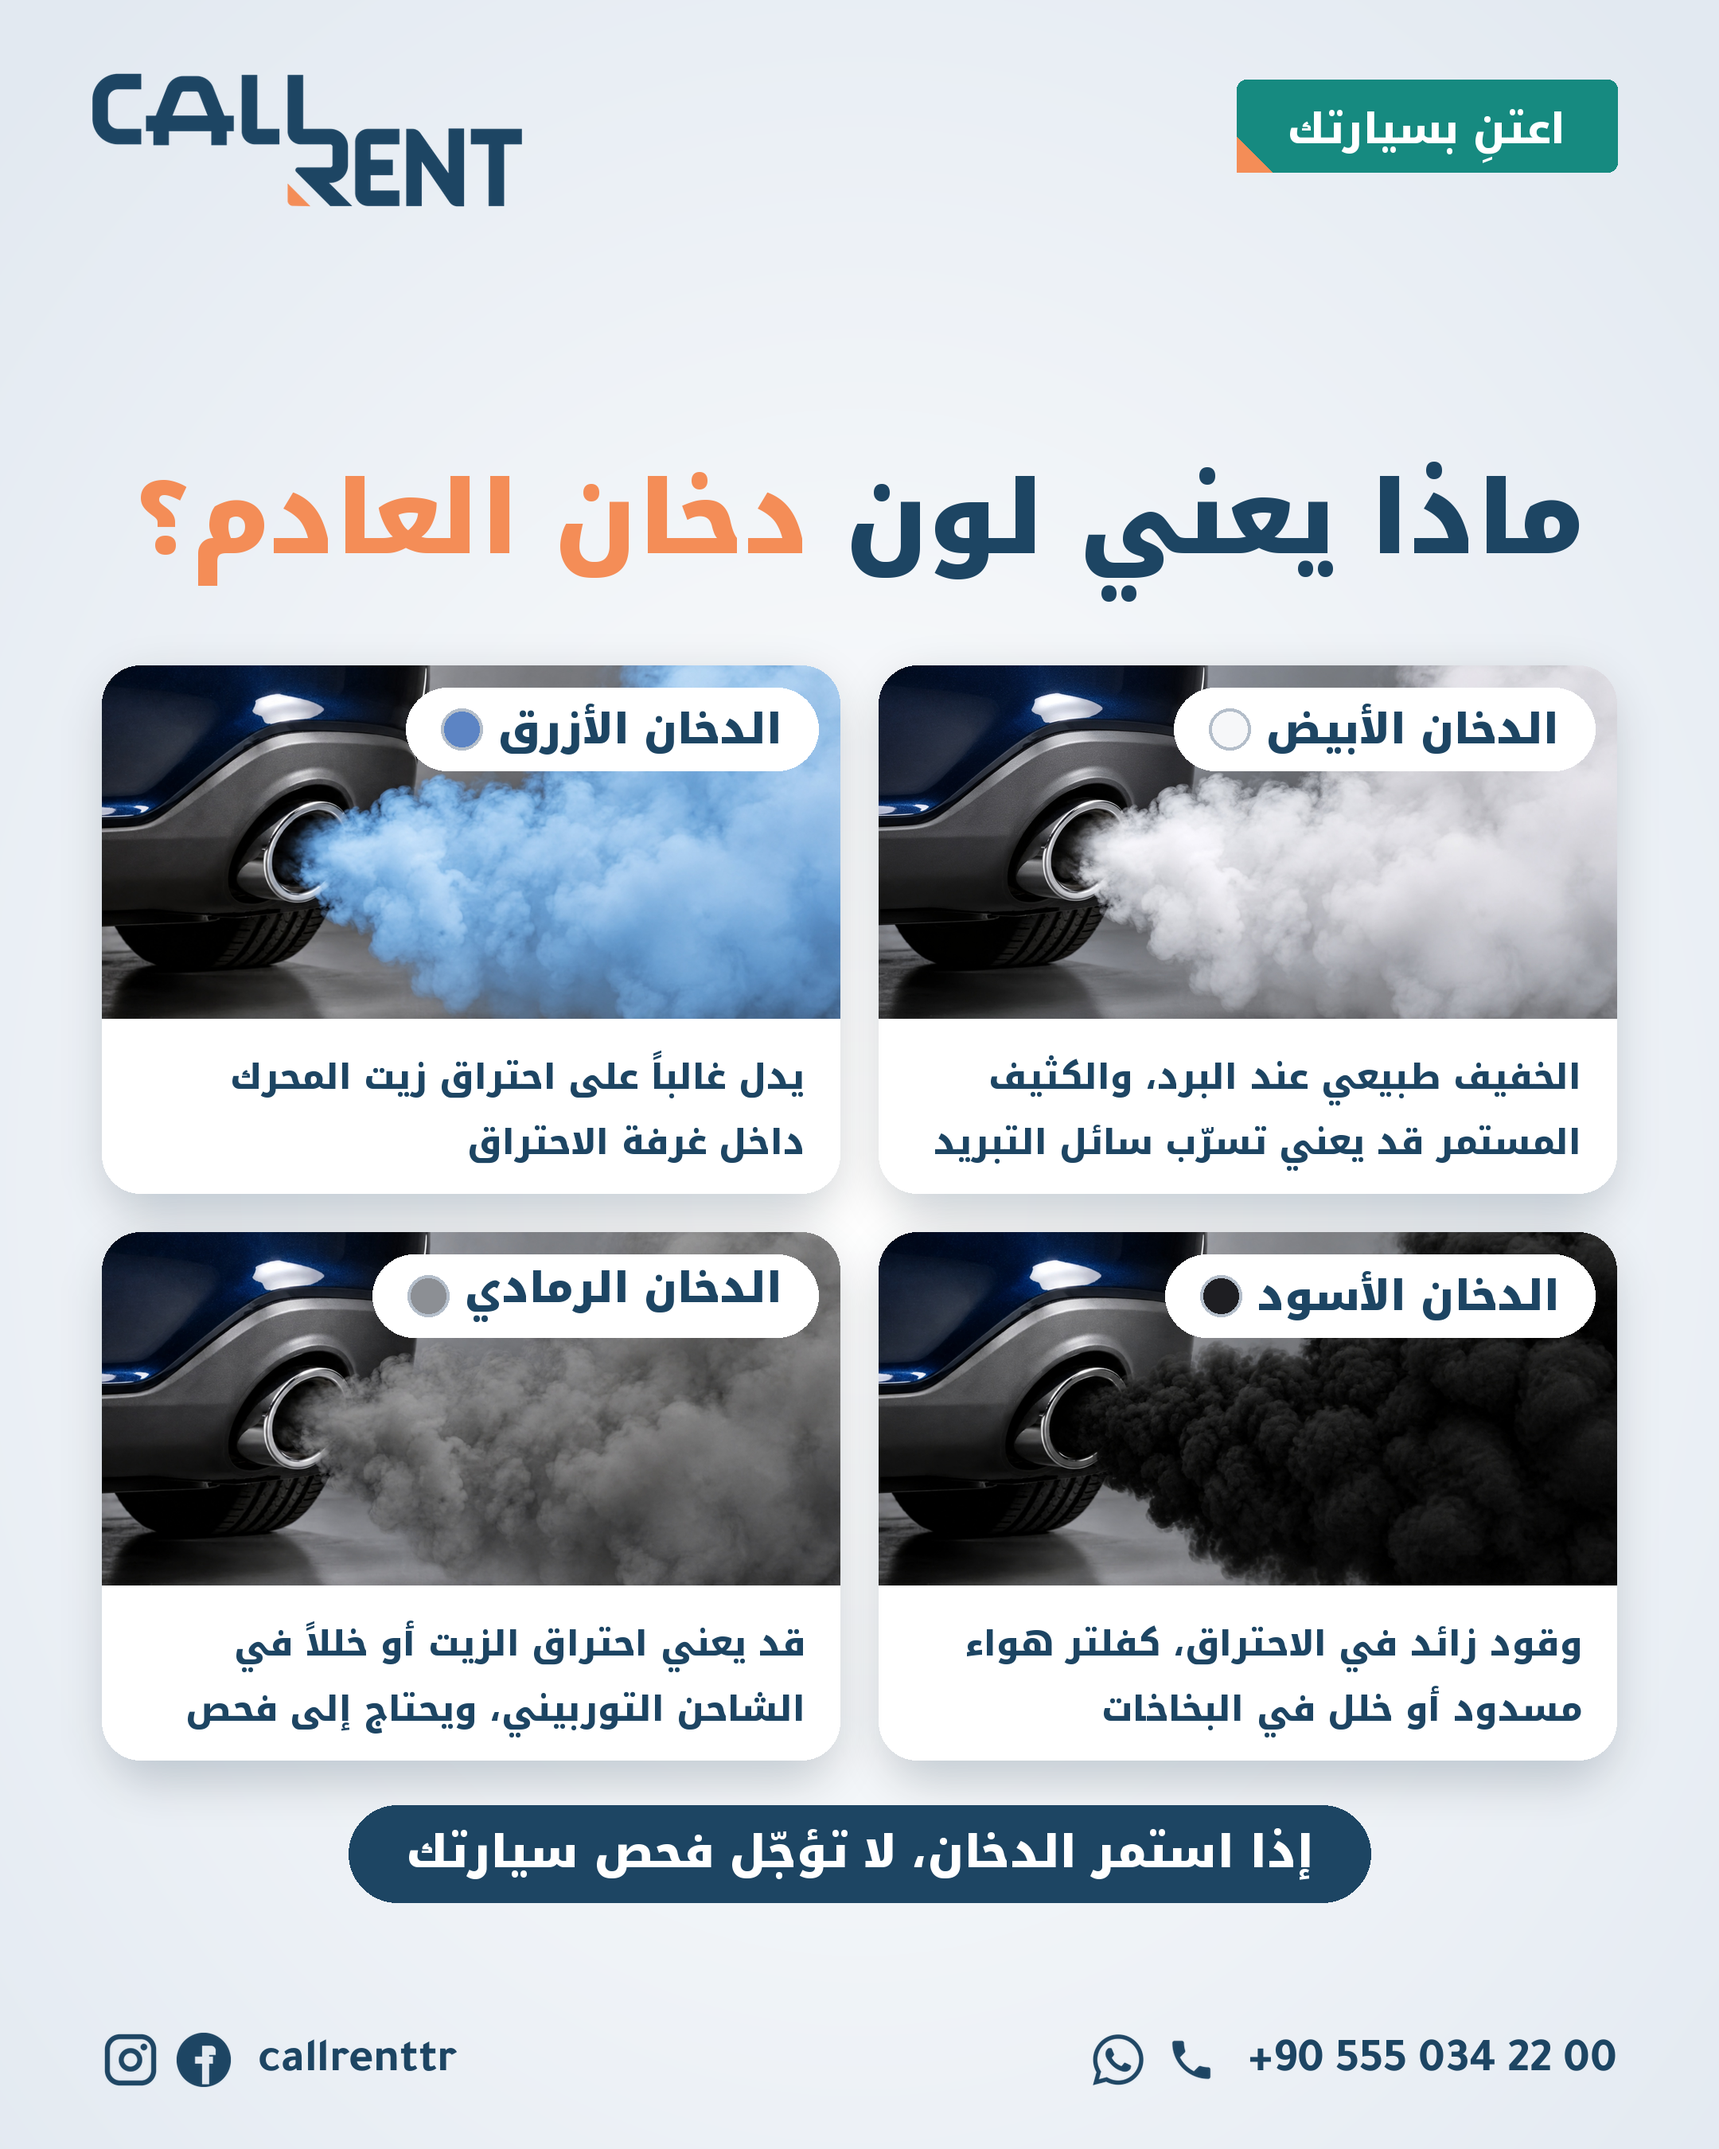
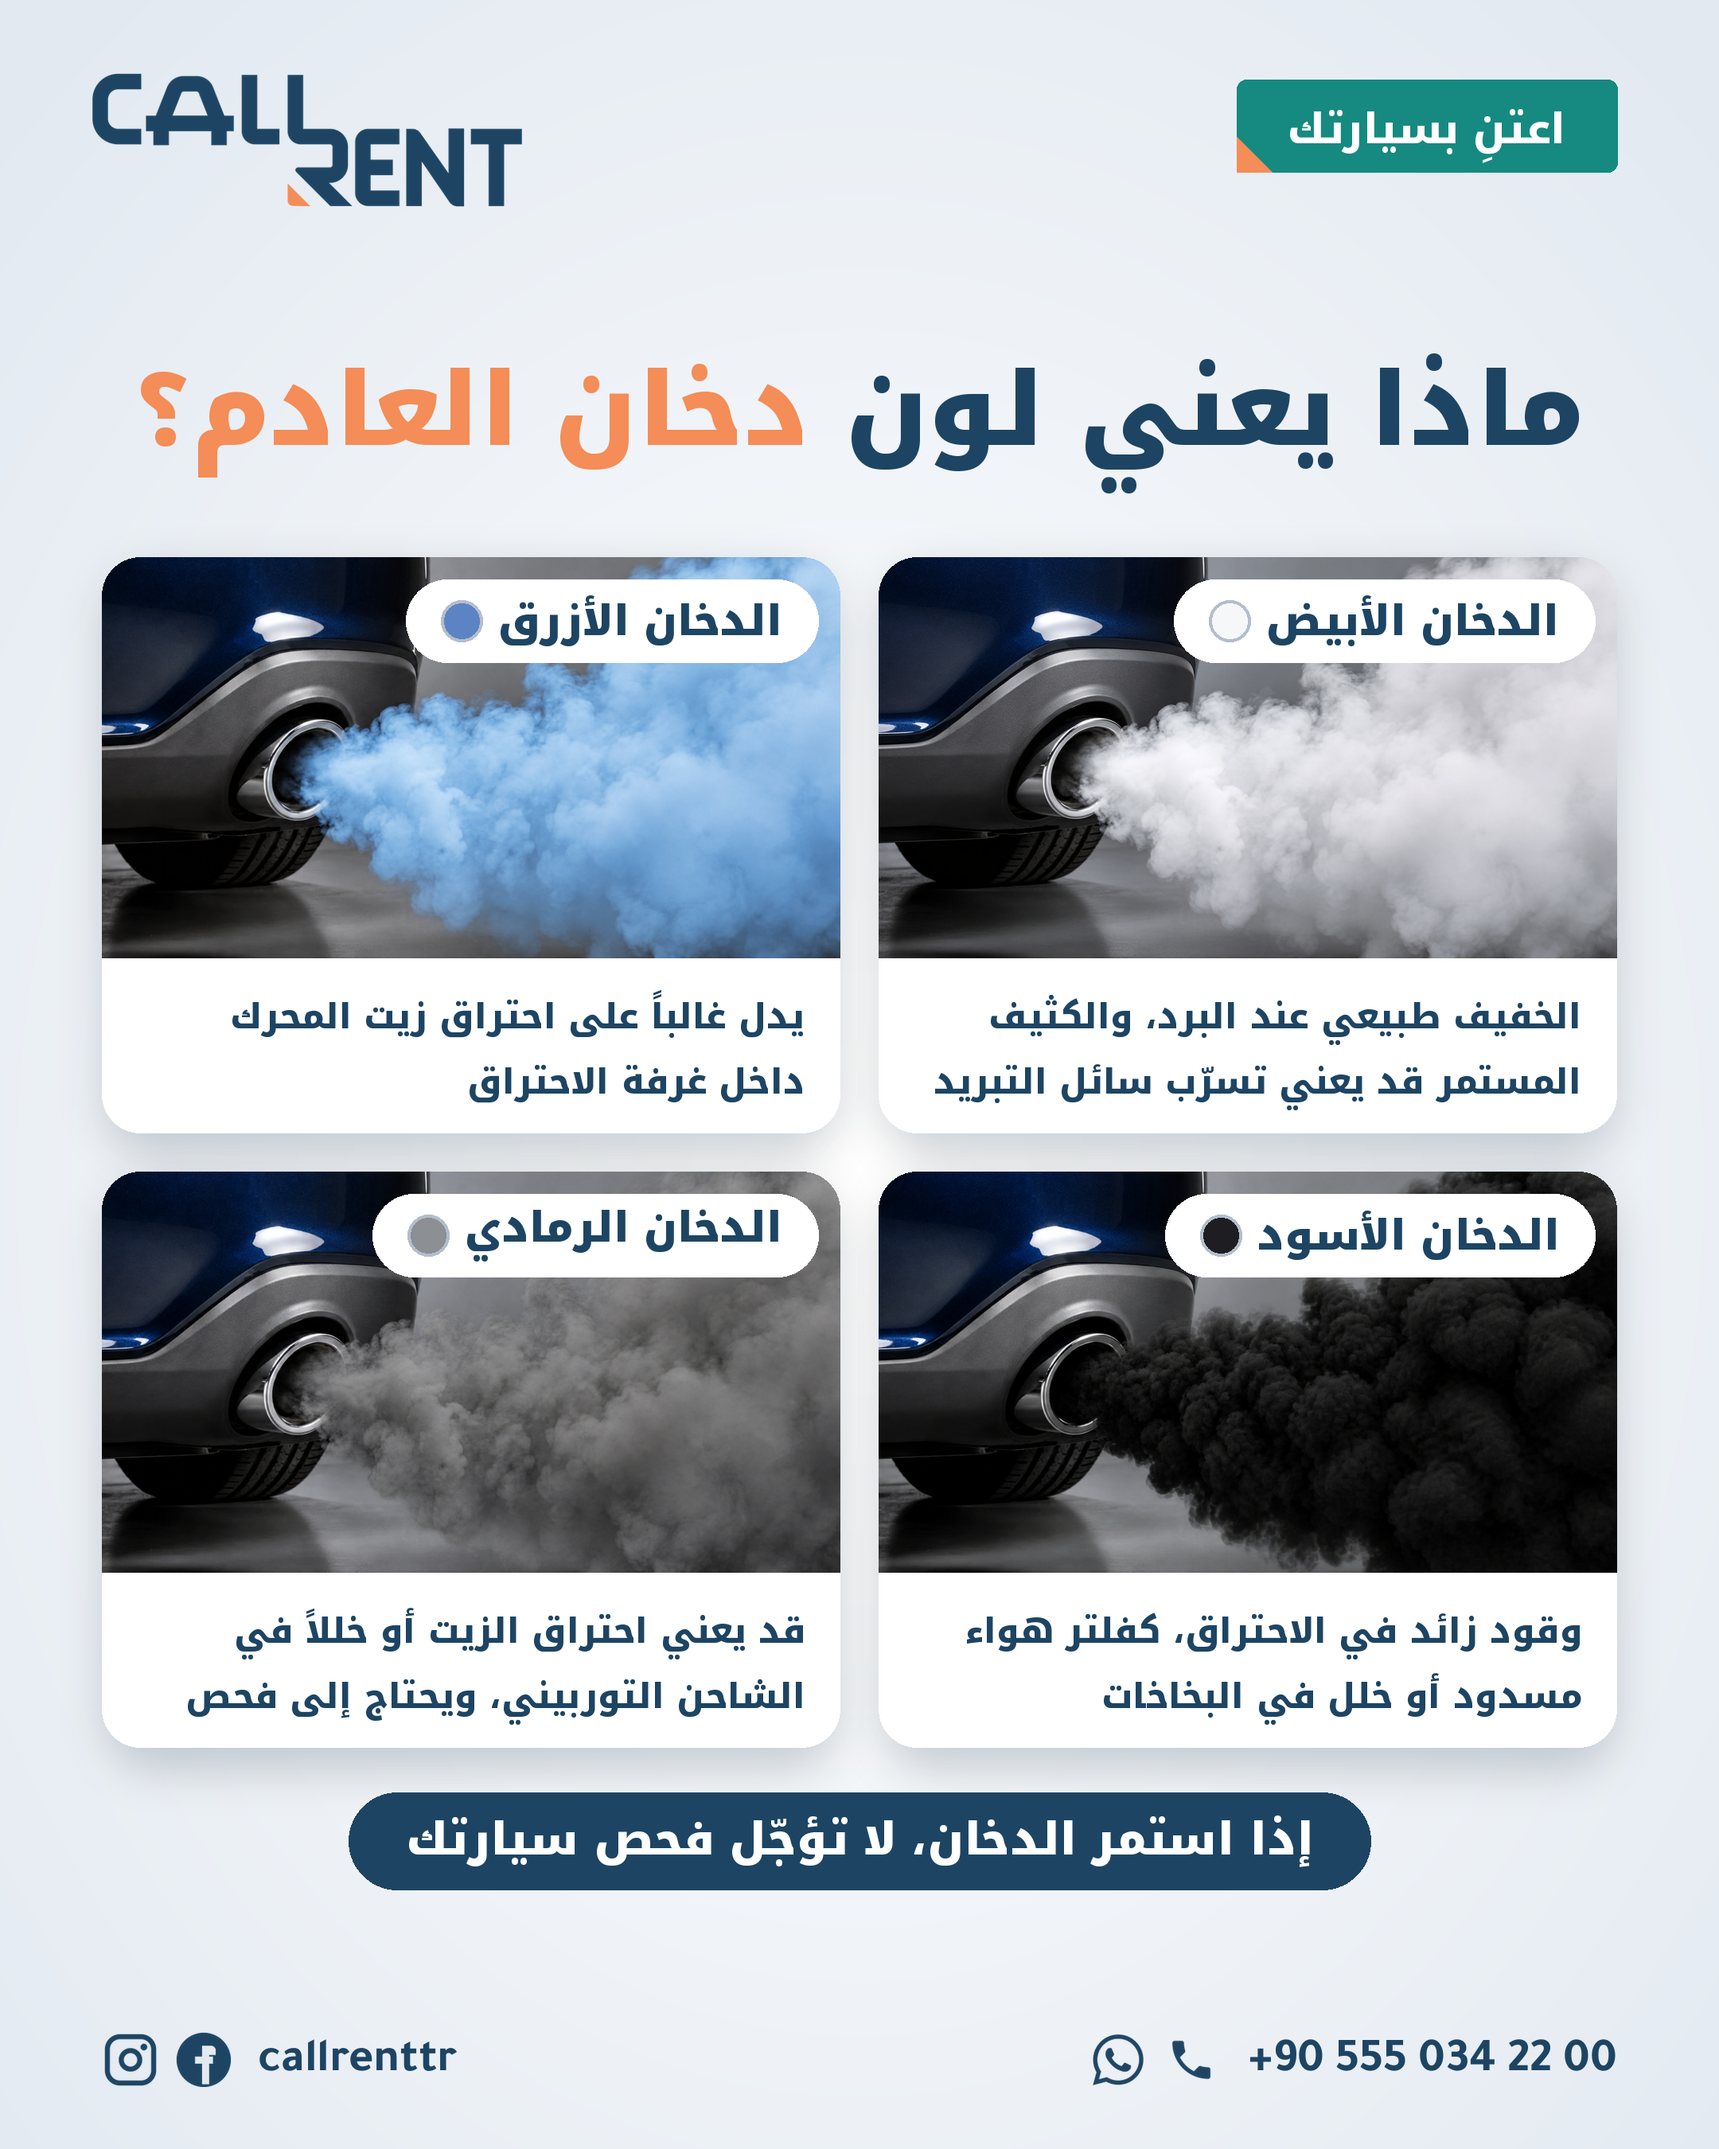
Exhaust smoke post: title moved up to 222, taller photos fill the freed space
Claude-Session: https://claude.ai/code/session_01JWxxZZBXcuDznNNTjM86b7

diff --git a/marketing/care/exhaust_smoke.py b/marketing/care/exhaust_smoke.py
@@ -71,15 +71,15 @@ d.polygon([(bx, by + bh - S(22)), (bx, by + bh), (bx + S(22), by + bh)], fill=O+
 d.text((bx + bw/2, by + bh/2 + S(2)), label, font=fb, fill=Wh+(255,), anchor='mm', direction='rtl', language='ar')
 
 # headline, centred, starting low
-y = S(290); f = F(AR_BLACK, S(64))
+y = S(222); f = F(AR_BLACK, S(64))
 a1, a2 = 'ماذا يعني لون ', 'دخان العادم؟'
 u1, d1, w1 = ink(a1, f); u2, d2, w2 = ink(a2, f); up, dn = max(u1, u2), max(d1, d2); b = y + up
 x0 = W/2 + (w1 + w2)/2; ar(d, (x0, b), a1, f, N); ar(d, (x0 - w1, b), a2, f, O)
 y = b + dn
-print('headline 290 -', round(y/K))
+print('headline 222 -', round(y/K))
 
 # 2x2 cards
-G0 = y + S(40); GAP = S(24); CW = (R_ - M - GAP)//2; PH = S(222); TXT = S(110); CH = PH + TXT
+G0 = y + S(40); GAP = S(24); CW = (R_ - M - GAP)//2; PH = S(252); TXT = S(110); CH = PH + TXT
 fn = F(AR_BLACK, S(26)); fm = F(AR_BOLD, S(22))
 for i, (name, sw, photo, meaning) in enumerate(CARDS):
     cx0 = R_ - CW - (i % 2)*(CW + GAP); cy0 = G0 + (i//2)*(CH + GAP)
